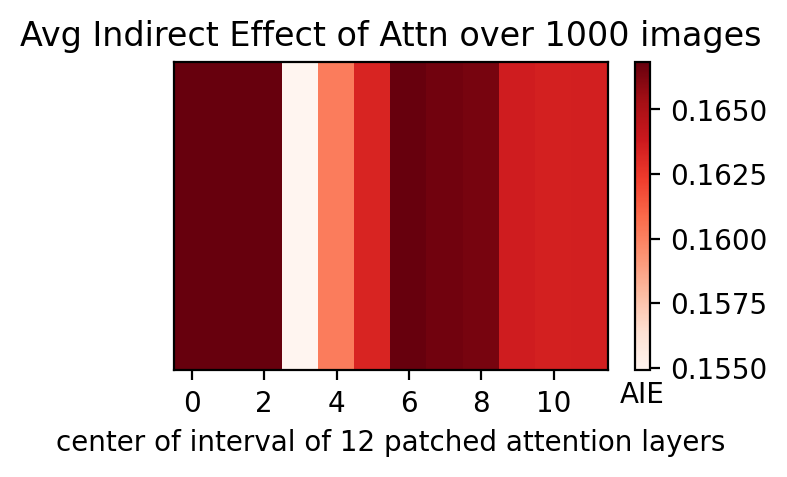
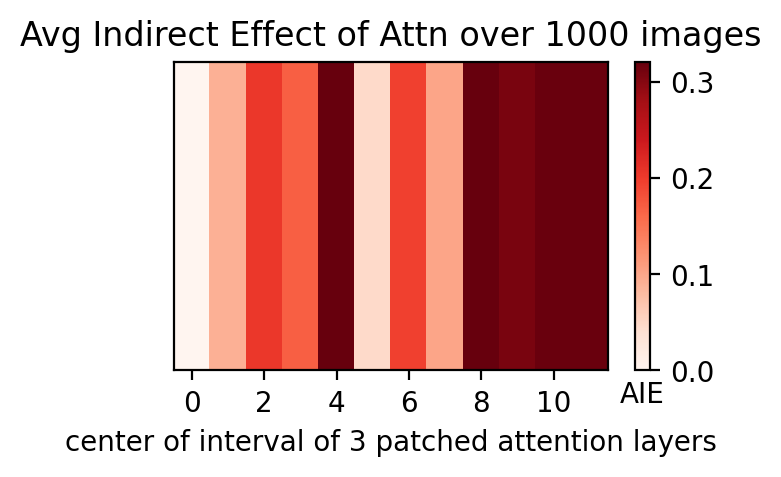
final report

diff --git a/_posts/2023-11-10-CNN-activation-patching.md b/_posts/2023-11-10-CNN-activation-patching.md
@@ -2,7 +2,7 @@
 layout: distill
 title: Activation Patching in Vision Transformers
 # description: 
-date: 2023-11-10
+date: 2023-12-12
 htmlwidgets: true
 
 # Anonymize when submitting
@@ -44,65 +44,25 @@ _styles: >
   }
 ---
 
-<!-- Neural nets contain large amounts of parameters and connections that they use to model a given phenomena. Often, the breadth and complexity of these systems make it difficult for humans to understand the mechanisms that the model uses to perform its tasks. The model is treated like a black-box, often leading to a reliance on trial-and-error and larger, more diverse datasets to alter the behavior of the model when it does not behave in the desired way.
-
-Mechanistic interpretability aims to unpack the underlying logic and behaviors of neural networks. <d-cite key="zhang2023best"></d-cite> Activation patching is an interpretability technique that replaces activations in a model with that of another model in order to analyze its role in the output. When a patched activation changes the output of the first model to match that of the second, it indicates that the patched activation is responsible for that task within the model. <d-cite key="Vig2020InvestigatingGB"></d-cite> For example, if the attention head of a transformer model with prompt "The Eiffel Tower is in" is patched into a model with "The Colosseum is in" and successfully changes the output from "Rome" to "Paris", this indicates that the patched head contains information about the Eiffel Tower. <d-cite key="meng2023locating"></d-cite>
-
-{% include figure.html path="assets/img/2023-11-10-CNN-activation-patching/patch.png" class="img-fluid" %}<d-cite key="meng2023locating"></d-cite>
-
-Activation patching has been used for language models, but this project proposes to apply this technique to a vision transformer. <d-cite key="dosovitskiy2021image"></d-cite> Similar to the strategies of existing language model work, there can be patching with a clean and corrupted dataset. For example, a clean model can be trained on color images and a corrupted one can be trained only with black and white images. If an attention head from the color model is patched into the black and white model such that it can correctly classify images, that will reveal that the head contains information about the color of the image. Similar analysis can be performed for other tasks vision models perform before classification, such as edge detection. In this case, the corrupted model can have blurred images.
-
-Given successful analysis of simpler features of the images, it would be interesting to explore how attribution patching can reveal information about vision models with racial and gender bias. Datasets that focus on emotion and actions may have biases when determining people of which demographic are most likely to make a given expression or perform a given action. The mechanisms behind this bias can be dissected further through activation patching. <d-cite key="Vig2020InvestigatingGB"></d-cite>
-
-CIFAR-100 is a potential dataset that can be used for this study. The images can be blurred or changed to black and white as needed. 
-
-Thank you to Saachi Jain for helping me flesh out this idea.
-
-## Related Work (not alr in biblio)
-- Transformer Interpretability Beyond Attention Visualization: https://arxiv.org/pdf/2012.09838.pdf
-- Causal Explanation of Vision Transformers: https://arxiv.org/pdf/2211.03064.pdf
-- Causal Tracing Tool for BLIP (image to text caption generation?): https://arxiv.org/pdf/2308.14179.pdf
-- CNN model editing, fossils: https://openaccess.thecvf.com/content/CVPR2023W/L3D-IVU/html/Panigrahi_Improving_Data-Efficient_Fossil_Segmentation_via_Model_Editing_CVPRW_2023_paper.html
-- text to image diffusion model editing: https://arxiv.org/abs/2305.16225
-- interpreting vision transformer's latent tokens with natural language: https://arxiv.org/abs/2310.10591
-- edits on text-to-image projections, diffusion models: https://arxiv.org/abs/2308.14761
-- edit generative model: https://arxiv.org/pdf/2007.15646.pdf
-
-## Applications/ Ideas
-- fixing: changing knowledge in LM can correct misinfo, bias; what are advantages to changing images?
-- train on just color detection, like the shapes dataset
-
-- which attention heads are doing what
-  - corrupt embedd: where relevant heads are in network, patch into corrupt network
-
-- corrupt embeddings
-- think of applications of that
-- patch in activation heads until color is restored
-
-## backup
-- augment gender bias or corruption study rather than doing something completely diff
-
- An introduction or motivation.
-2) Background and related work with literature cited.
-3) A description of your methods and experiments with figures showing the method or setup.
-4) An analysis of the results of your experiments with figures showing the results.
-5) A conclusion or discussion, with mention of limitations. -->
-
 # Motivation
-Neural nets contain large amounts of parameters and connections that they use to model a given phenomena. Often, the breadth and complexity of these systems make it difficult for humans to understand the mechanisms that the model uses to perform its tasks. The model is treated like a black-box, often leading to a reliance on trial-and-error and larger, more diverse datasets to alter the behavior of the model when it does not behave in the desired way.
+Neural nets contain large amounts of parameters and connections that they use to model a given phenomenon. Often, the breadth and complexity of these systems make it difficult for humans to understand the mechanisms that the model uses to perform its tasks. The model is treated like a black-box. When attempting to alter the behavior of the model when it does not behave in the desired way, engineers often rely on trial-and-error tuning of hyperparameters or providing larger, more diverse datasets for training. However, it is often difficult to get representative training data. In addtion, hyperparameters can improve training but are limited in their ability to alter the innate limitations of a model.
 
-Mechanistic interpretability aims to unpack the underlying logic and behaviors of neural networks. <d-cite key="zhang2023best"></d-cite> Activation patching is an interpretability technique that replaces activations in a model with that of another model in order to analyze its role in the output. When a patched activation changes the output of the first model to match that of the second, it indicates that the patched activation is responsible for that task within the model. <d-cite key="Vig2020InvestigatingGB"></d-cite> 
+Mechanistic interpretability aims to unpack the underlying logic and behaviors of neural networks. <d-cite key="zhang2023best"></d-cite> Activation patching is an interpretability technique that replaces activations in a corrupted model with that of an uncorrupted model in order to analyze their influence on model output. When a patched activation improves model performance, it indicates that the patched activation playes a role relevant to the corrupted information. <d-cite key="Vig2020InvestigatingGB"></d-cite> 
+
+A better understanding of the logic within neural networks will allow for more strategic improvements to these models inspired by this newfound understanding. In additon, interpretability is the first step toward changing and correcting models. With an understanding of the underlying mechanisms comes more control of these mechanisms, which can be used to apply necessary changes for goal alignment and mitigating issues such as bias.
 
 # Related Work
 
-Pearl <d-cite key="10.5555/2074022.2074073"></d-cite> defines causal mediation analysis in order to analyze the role of intermediate entities on an output. An application of the "indirect effect" introduced by this research is activation patching, also known as causal tracing. The indirect effect is the effect a given activation has on the output of the model. This technique has been used in language models <d-cite key="meng2023locating"> where the indirect effect is defined as the role of an MLP or attention layer on the output. This role is analyzed by first corrupting the outputs of the network and determining. Then, states from an uncorrupted version of the network are patched into the corrupted network.
+Pearl <d-cite key="10.5555/2074022.2074073"></d-cite> defines causal mediation analysis in order to analyze the effect of intermediate entities on a desired result. An application of the "indirect effect" introduced by this research is activation patching, also known as causal tracing. The indirect effect is the effect a given activation has on the output of the model. Since the activation is encompassed within the layers of a nueral network, it has an indirect effect on the output. This analysis has been used in language models <d-cite key="meng2023locating">. Here, the indirect effect is defined as the role of an MLP or attention layer on the output. This role is analyzed by first corrupting the outputs of the network. Then, activations from an uncorrupted run of the model can be iteratively patched into the corrupted run in order to determine which activations can best restore the uncorrupted outputs. The activations with the most significant restorative impact have the highest indirect effect.
 
 
-For example, if the attention head of a transformer model with prompt "The Eiffel Tower is in" is patched into a model with "The Colosseum is in" and successfully changes the output from "Rome" to "Paris", this indicates that the patched head contains information about the Eiffel Tower. <d-cite key="meng2023locating"></d-cite>
+For example, if the hidden state for a given attention head in a language model with prompt "The Eiffel Tower is in" is patched into that of a prompt "The Colosseum is in" and successfully changes the output from "Rome" to "Paris", this indicates that the patched head contains knowledge about the Eiffel Tower. <d-cite key="meng2023locating"></d-cite> The figure below depicts this process of patching from a clean to corrupt run. 
 
 {% include figure.html path="assets/img/2023-11-10-CNN-activation-patching/patch.png" class="img-fluid" %}<d-cite key="meng2023locating"></d-cite>
 
-Activation patching has been used for language models<d-cite key="dosovitskiy2021image"></d-cite> 
+Meng et al. also provides an example of how interpretability can open opportunities for model editing. <d-cite key="meng2023locating"></d-cite> With the understanding of where knowledge of facts is stored within the model MLPs, these layers can be edited to edit the knowledge of the language model in a way that is generalizable to many applications of this knowledge within language.
+
+Activation patching has been used for language models, which rely on a transformer architecture. Vision transformers <d-cite key="dosovitskiy2021image"></d-cite> take advantage of the transformer architecture to perform common computer vision tasks such as image classification. The strategies of activation patching can therefore apply in this context as well. Palit et al. performed a similar causal tracing analysis to that of the language model study except with a focus on BLIP, a multi-modal model that can answer questions about a given image. This investigation showed how activation patching can be performed on images along with language rather than language alone.<d-cite key="palit2023visionlanguage"></d-cite>
 
 # Methods
 
@@ -110,10 +70,27 @@ The model that was used for this investigation was a vision transformer that was
 {% include figure.html path="assets/img/2023-11-10-CNN-activation-patching/image.jpg" class="img-fluid" %}{% include figure.html path="assets/img/2023-11-10-CNN-activation-patching/gray.jpg" class="img-fluid" %}
 <!-- <img src="assets/img/2023-11-10-CNN-activation-patching/gray.jpg" alt="drawing" style="width:10px;"/> -->
 
-In order to trace which attention heads focus on color information, a clean, corrupted, and restored run was performed with the model. A batch was created was a given image along with a grayscale version of that image. The colored image played the role of the clean run. The grayscale image is a corrupted input that hinders the models ability to classify the object in the image. This is reflected in the logits when the classifier attempts to classify the image. This corrupted run is the baseline in the investigation. Once this baseline was established, the restored run demonstrated the influence of a given attention head. In this run, the hidden state in a given layer was replaced with the hidden state at that layer from the clean run. As demonstrated in previous research <d-cite key="meng2023locating"></d-cite>, a window of layers was restored in order to have an effect on the output, as opposed to just a single layer. 
+In order to trace which attention heads focus on color information, a clean, corrupted, and restored run was performed with the model. A batch was created was a given image along with a grayscale version of that image. The colored image played the role of the clean run. The grayscale image is a corrupted input that hinders the models ability to classify the object in the image. This is reflected in the logits when the classifier attempts to classify the image. This corrupted run is the baseline in the investigation. Once this baseline was established, the restored run demonstrated the influence of a given attention head. In this run, the hidden state in a given layer was replaced with the hidden state at that layer from the clean run. As demonstrated in previous research <d-cite key="meng2023locating"></d-cite>, a window of layers was restored in order to have an effect on the output, as opposed to just a single layer. In this experiment, the window was 3, so the given layer as well as the adjacent layers were restored. The effect of a given layer was calculated by the difference in the softmax probability of the class of the image between the corrupted and patched run.
+
+{% include figure.html path="assets/img/2023-11-10-CNN-activation-patching/eqn.png" class="img-fluid" %}<d-cite key="meng2023locating"></d-cite>
 
 This analysis was performed for 1000 images from the CIFAR10 dataset. 
 
 # Results
 
+When single layers were patched, results matched that of Meng et al. The patching of a single activation did not have a significan effect on the output. 
+{% include figure.html path="assets/img/2023-11-10-CNN-activation-patching/single.png" class="img-fluid" %}
+
+The attention heads of most relevance to color tended to be in the middle or last layers.
+{% include figure.html path="assets/img/2023-11-10-CNN-activation-patching/attn.png" class="img-fluid" %}
+
+Here are some examples of tracing for individual images. 
+{% include figure.html path="assets/img/2023-11-10-CNN-activation-patching/deer.png" class="img-fluid" %}
+{% include figure.html path="assets/img/2023-11-10-CNN-activation-patching/car.png" class="img-fluid" %}
+{% include figure.html path="assets/img/2023-11-10-CNN-activation-patching/plane.png" class="img-fluid" %}
+
+The influence of attention heads close to the output align with the conclusions found by Palit et al. This is likely due to direct connection of final layers to the output. There is also a significan influence of middle attention heads on the output, which is some indication of the key information that is stored in these layers. A possible explanation is the closeness of these layers to input layer that directly stores color, but with enough distance from the input to have narrowed down which tokens are relevant to the class the image belongs to. 
+
 # Conclusion
+
+Attention heads have significane in vision transformers not just in the final layers that relate to the output, but in the middle of the network as well. Future investigations could include other forms of corruption, such as by adding noise to the image rather than removing color. This corruption would allow more control on how much the output would change and possibly allow room for more significant restorative effects from patching and more definitive results as to where the most influential attention head live in vision transformers. In addition, performing this analysis with window sizes other than 3 as well as other and larger image datasets could also provide more context as to how important is an individual attention layer.
